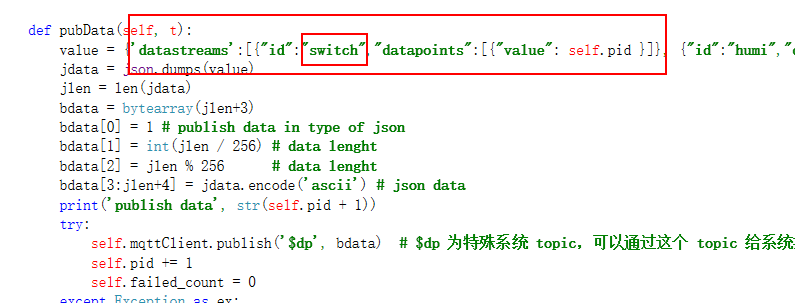
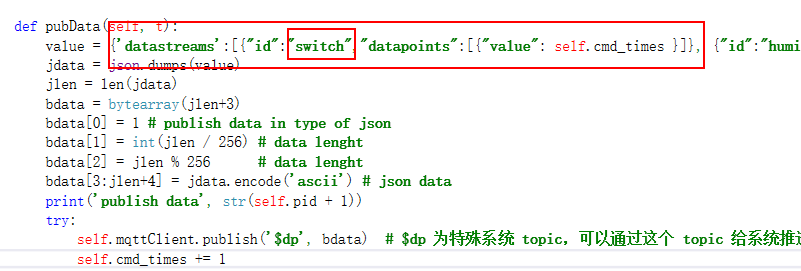
【完善】：完善章节

Changed region(s): [[0.0, 0.0295, 1.0, 1.0]]

diff --git a/10-Net_Programming_Guide/05-云平台对接(OneNET).md b/10-Net_Programming_Guide/05-云平台对接(OneNET).md
@@ -19,10 +19,13 @@
 
 ## 硬件接入
 
+本章节将介绍如何将设备接入到 OneNET 云平台上。并且演示一个云平台向设备发送命令，设备向云平台返回命令发送次数的示例。
+
+### 设备的注册和接入
+
 - 成功创建设备之后，将得到的产品 ID 记录下来供后面推送数据使用。
 
 ![1525765493792](../figures/get_product_id.png)
-
 
 - 将设备的`正式环境注册码`记录下来用于注册新的设备。
 
@@ -40,6 +43,8 @@
 
 ![1525767167244](../figures/reg_done.png)
 
+### 云平台向设备发送命令
+
 - 通过发送命令功能来给开发板发送几组命令。
 
 ![1525767264155](../figures/cmd1.png)
@@ -48,7 +53,9 @@
 
 ![1525767520609](../figures/cmd3.png)
 
-- 点击数据流管理来查看开发板回传的数据
+### 设备向云平台上传数据
+
+- 点击数据流管理来查看开发板上传的数据
 
 ![1525767621708](../figures/look_data.png)
 
@@ -58,7 +65,7 @@
 
 - 这里的 switch 数据是在 mqtt.py 的 pubData 函数里面修改的，可以通过修改这里的数据来给云平台传输不同的数据。
 
-![1525767815954](../figures/change_pub.png)
+![1525774755758](../figures/change_pub.png)
 
 - 至此设备到云平台就对接好了，为了方便使用还可以给设备[添加独立的应用](https://open.iot.10086.cn/doc/art461.html#108)，效果如下图：
 
@@ -68,7 +75,7 @@
 
 - 通过修改 value 对象来修改向服务器发送的数据，这里是发送到特殊的系统 topic `$dp`
 
-![1525768277055](../figures/code_review1.png)
+![1525774792209](../figures/code_review1.png
 
 - 给服务器发送数据的触发条件是收到服务器下发的命令，这样就没有保证会一直有数据发送到服务器，所以在没有数据交换的一段时间后，MQTT 连接有可能断开。后面可以修改为在定时器中断中周期性的给服务器发送数据，这样就能保持连接不断开。
 
